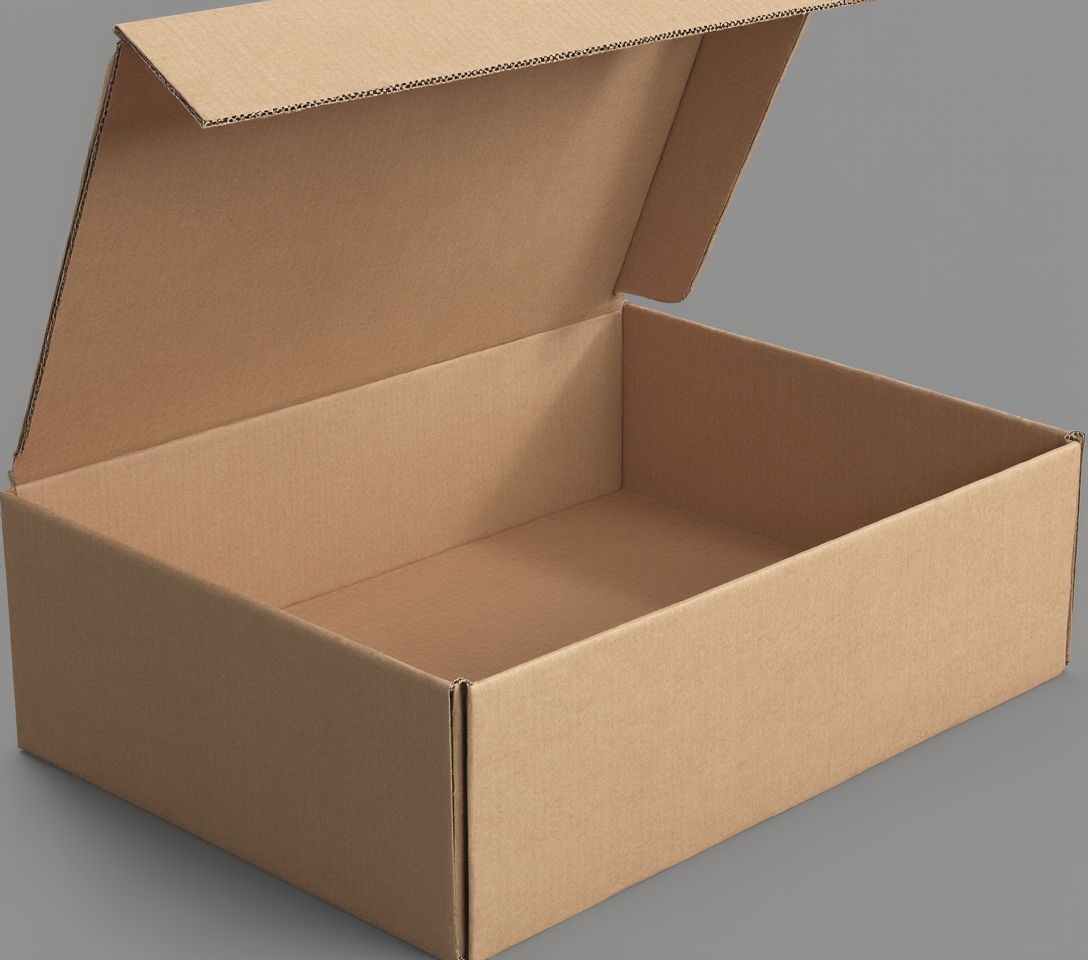
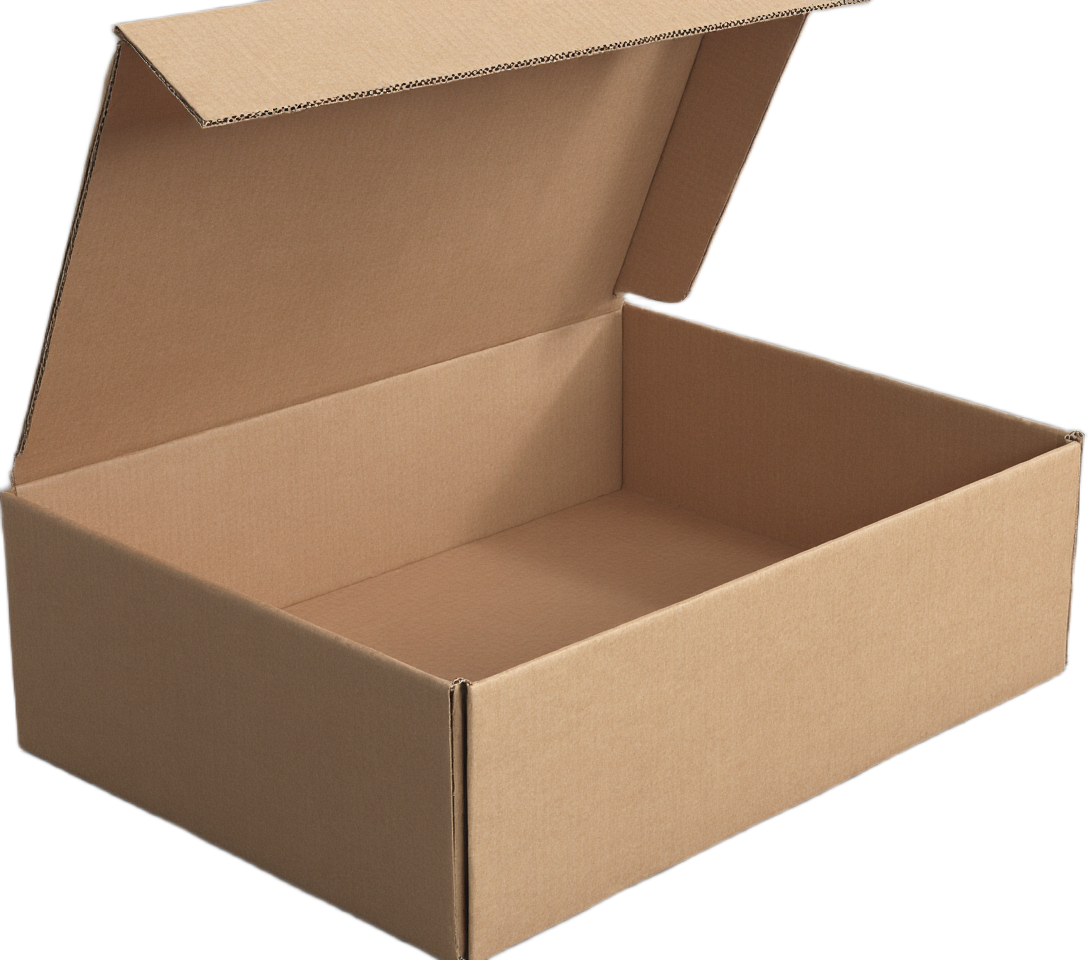
Refactor code structure for improved readability and maintainability

diff --git a/src/content/data.ts b/src/content/data.ts
@@ -12,6 +12,7 @@ export interface ProductCategory {
   slug: string;
   description: string;
   hint: string;
+  class: string;
   image: string[];
 }
 
@@ -21,13 +22,15 @@ export const productCategories: ProductCategory[] = [
     slug: 'regular-slotted-carton-rsc',
     description: 'Preferred corrugated shipper with four flaps top & bottom and a manufacturer\'s joint—versatile for FMCG & appliance logistics.',
     hint: 'regular slotted carton rsc',
-    image: ['/images/products/rsc.jpg']
+    class: "object-scale-down",
+    image: ['/images/products/rsc.png']
   },
   {
     name: 'Half Slotted Carton (HSC)',
     slug: 'half-slotted-carton-hsc',
     description: 'Single set of flaps enabling slide-over loading—ideal for appliances & FMCG overpacks.',
     hint: 'half slotted carton hsc',
+    class: "object-scale-down",
     image: ['/images/products/hsc.png']
   },
   {
@@ -35,6 +38,7 @@ export const productCategories: ProductCategory[] = [
     slug: 'full-overlap-design-carton',
     description: 'Equal length flaps fully overlap for enhanced top & bottom stacking strength and impact protection.',
     hint: 'full overlap carton',
+    class: "object-scale-down",
     image: ['/images/products/Full Overlap Design Carton.png']
   },
   {
@@ -42,6 +46,7 @@ export const productCategories: ProductCategory[] = [
     slug: 'full-telescope-design-carton-ftd',
     description: 'Two-piece telescoping design for horizontal stacking strength—flat packed & self-assembled without tape.',
     hint: 'full telescope design carton',
+    class: "object-scale-down",
     image: ['/images/products/Full Telescope Design Carton.png']
 
   },
@@ -50,13 +55,15 @@ export const productCategories: ProductCategory[] = [
     slug: 'die-cut-boxes',
     description: 'Quick assembly die-cut formats with auto-lock bottoms for premium small parcel presentation & speed.',
     hint: 'die cut box',
-    image: ['/images/products/DIE CUT BOX.jpg']
+    class: "object-scale-down",
+    image: ['/images/products/DIE CUT BOX.png']
   },
   {
     name: 'Partitioners & Dividers',
     slug: 'partitioners-dividers',
     description: 'Intersecting corrugated grids creating pockets for separation, rigidity & part protection inside master cartons.',
     hint: 'partitioners dividers',
+    class: "object-cover",
     image: ['/images/products/partitons and dividers 1.jpg','/images/products/partitons and dividers 2.jpg']
   },
   {
@@ -64,13 +71,15 @@ export const productCategories: ProductCategory[] = [
     slug: 'carton-with-top-lid',
     description: 'Two-piece set with friction-fit lid delivering improved top-down protection & faster close—ideal for bulk materials.',
     hint: 'carton with top lid',
-    image: ['/images/products/CARTON WITH TOP LID.jpg',]
+    class: "object-scale-down",
+    image: ['/images/products/CARTON WITH TOP LID.png',]
   },
   {
     name: 'Heavy Duty Box',
     slug: 'heavy-duty-box',
     description: 'High stacking, export-ready heavy duty corrugated engineered for dense or CKD automotive & industrial loads.',
     hint: 'heavy duty box',
+    class: "object-cover",
     image: ['/images/products/HEAVY DUTY BOX 1.jpg', '/images/products/heavy duty box 2.png']
   },
   {
@@ -78,7 +87,8 @@ export const productCategories: ProductCategory[] = [
     slug: 'tray-form-boxes',
     description: 'One-piece bottom tray formats (glued / self-locking / stitched) for beverage multipacks & chilled produce.',
     hint: 'tray form boxes',
-    image: ['/images/products/tray from boxes1.png', '/images/products/tray form boxes 2.jpg']
+    class: "object-scale-down",
+    image: ['/images/products/tray from boxes1.png', '/images/products/tray form boxes 2.png']
   },
   // {
   //   name: 'Innovative Products',

diff --git a/src/components/ui/product-carousel.tsx b/src/components/ui/product-carousel.tsx
@@ -5,9 +5,10 @@ import Image from 'next/image';
 interface ProductCarouselProps {
   images: string[];
   productName: string;
+  productClass: string;
 }
 
-export default function ProductCarousel({ images, productName }: ProductCarouselProps) {
+export default function ProductCarousel({ images, productName, productClass }: ProductCarouselProps) {
   const [currentSlide, setCurrentSlide] = useState(0);
 
   // Auto-scroll carousel
@@ -22,7 +23,7 @@ export default function ProductCarousel({ images, productName }: ProductCarousel
   }, [images.length]);
 
   return (
-    <div className="relative w-full h-[600px] rounded-xl overflow-hidden shadow-lg">
+    <div className="relative w-full h-[400px] md:h-[600px] rounded-xl overflow-hidden shadow-lg">
       {/* Auto-scrolling image carousel */}
       <div className="relative w-full h-full">
         {images.map((image, index) => (
@@ -35,7 +36,7 @@ export default function ProductCarousel({ images, productName }: ProductCarousel
               src={image}
               alt={`${productName} view ${index + 1}`}
               fill
-              className="object-cover"
+              className={productClass}
               sizes="(max-width:768px) 100vw, 50vw"
               priority={index === 0}
             />

diff --git a/src/app/page.tsx b/src/app/page.tsx
@@ -230,13 +230,13 @@ export default function Home() {
               <Link key={category.name} href={`/products/${(category as any).slug}`}>
                 <Card className="overflow-hidden transform transition-all duration-300 hover:scale-105 hover:shadow-xl">
                   <CardHeader className="p-0">
-                    <div className="relative w-full h-48">
+                    <div className="relative w-full h-64">
                       <Image
                         src={category.image[0]}
                         alt={category.name}
                         fill
                         sizes="(max-width:768px) 100vw, (max-width:1200px) 50vw, 33vw"
-                        className="object-cover"
+                        className={category.class}
                         priority={false}
                       />
                     </div>

diff --git a/src/app/(pages)/products/[slug]/page.tsx b/src/app/(pages)/products/[slug]/page.tsx
@@ -157,7 +157,7 @@ export default async function ProductDetailPage({ params }: { params: Promise<{ 
       <Link href="/products" className="inline-block mb-8 text-primary hover:underline font-semibold">&larr; Back to Products</Link>
       <div className="flex flex-col md:flex-row gap-8 items-center">
         <div className="w-full md:w-1/2 flex-shrink-0">
-          <ProductCarousel images={product.image} productName={product.name} />
+          <ProductCarousel productClass={product.class} images={product.image} productName={product.name} />
         </div>
         <div className="flex-1">
           <h1 className="text-3xl font-headline font-bold mb-2">{product.name}</h1>

diff --git a/src/app/(pages)/products/page.tsx b/src/app/(pages)/products/page.tsx
@@ -26,7 +26,7 @@ export default function ProductsPage() {
                   src={category.image[0]}
                   alt={category.name}
                   fill
-                  className="object-cover"
+                  className={category.class}
                   sizes="(max-width:768px) 100vw, (max-width:1200px) 50vw, 33vw"
                 />
               </div>
